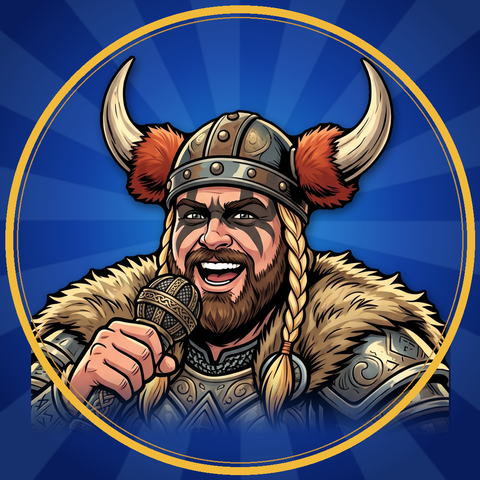
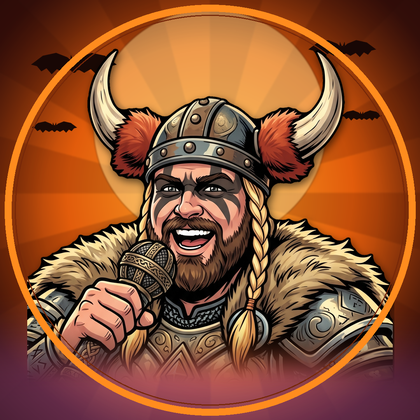
Redesign landing page with Halloween theme and event details.
Add Wednesday 7-11 PM at Aegir's Public House, animated scenery, and updated avatar.

diff --git a/index.html b/index.html
@@ -2,141 +2,207 @@
 <html lang="en">
 <head>
 <meta charset="utf-8">
-<meta name="viewport" content="width=device-width, initial-scale=1">
+<meta name="viewport" content="width=device-width, initial-scale=1, viewport-fit=cover">
 <title>Karaoke Karl</title>
-<meta name="description" content="Request a song, tip the host, and join the fun with Karaoke Karl.">
-<meta name="theme-color" content="#0a1530">
+<meta name="description" content="Karaoke Karl: every Wednesday, 7 to 11 PM at Aegir's Public House. Request a song, tip the host, and join the costume contest.">
+<meta name="theme-color" content="#0e061e">
 <link rel="icon" href="karl.png">
 <style>
   @font-face { font-family: "Fjalla One"; src: url("fonts/fjalla-one.woff2") format("woff2"); font-weight: 400; font-style: normal; font-display: swap; }
   @font-face { font-family: "Lora"; src: url("fonts/lora-italic.woff2") format("woff2"); font-weight: 400 700; font-style: italic; font-display: swap; }
   :root {
-    --navy: #0a1530;
-    --navy-2: #12265a;
-    --gold: #f0b93a;
-    --gold-2: #ffdc78;
-    --ice: #96cdeb;
-    --white: #ffffff;
+    --orange: #ff7614;
+    --orange-2: #ff9a3c;
+    --gold: #ffd27a;
+    --bone: #f3e8d4;
+    --ink: #1a1020;
+    --night: #0e061e;
   }
   * { box-sizing: border-box; }
-  html, body { margin: 0; min-height: 100%; }
-  body {
-    font-family: "Lora", Georgia, serif;
-    color: var(--white);
-    background:
-      radial-gradient(ellipse at 50% 0%, #2a6fb8 0%, rgba(42,111,184,0) 55%),
-      linear-gradient(180deg, var(--navy-2) 0%, var(--navy) 60%, #050b1c 100%);
-    background-attachment: fixed;
-    -webkit-font-smoothing: antialiased;
+  html, body { margin: 0; background: var(--night); }
+  body { font-family: "Lora", Georgia, serif; color: var(--bone); -webkit-font-smoothing: antialiased; }
+
+  .scene {
+    position: relative; overflow: hidden;
+    min-height: 100vh; min-height: 100svh;
+    background: linear-gradient(180deg, #0e061e 0%, #1d0b35 45%, #3e1648 75%, #8c3424 100%);
   }
+
+  /* ---------- scenery ---------- */
+  .moon {
+    position: absolute; z-index: 0; top: 2.5svh; right: 5vw;
+    width: clamp(64px, 19vw, 104px); aspect-ratio: 1; border-radius: 50%;
+    background:
+      radial-gradient(circle at 30% 28%, rgba(235,196,142,.9) 0 7%, transparent 8%),
+      radial-gradient(circle at 62% 40%, rgba(235,196,142,.8) 0 9%, transparent 10%),
+      radial-gradient(circle at 45% 70%, rgba(235,196,142,.85) 0 8%, transparent 9%),
+      radial-gradient(circle at 72% 72%, rgba(235,196,142,.75) 0 5%, transparent 6%),
+      radial-gradient(circle at 35% 35%, #fff2cf, #ffdca0 62%, #f2c488);
+    box-shadow: 0 0 50px 16px rgba(255,150,60,.35);
+    animation: moonglow 5s ease-in-out infinite;
+  }
+  @keyframes moonglow { 0%,100% { box-shadow: 0 0 44px 12px rgba(255,150,60,.28); } 50% { box-shadow: 0 0 72px 26px rgba(255,150,60,.5); } }
+  .web { position: absolute; z-index: 0; top: 0; left: 0; width: clamp(90px, 28vw, 150px); opacity: .55; pointer-events: none; }
+  .fly { position: absolute; z-index: 1; left: 0; pointer-events: none; will-change: transform; animation: cross linear infinite; }
+  .fly svg { display: block; width: var(--w, 52px); height: auto; animation: flap .34s ease-in-out infinite alternate; transform-origin: 50% 60%; }
+  .fly.b1 { top: 5svh; --w: 54px; animation-duration: 17s; animation-delay: -3s; }
+  .fly.b2 { top: 13svh; --w: 38px; animation-duration: 23s; animation-delay: -12s; }
+  .fly.b3 { top: 21svh; --w: 46px; animation-duration: 29s; animation-delay: -20s; }
+  @keyframes cross { from { transform: translateX(-90px); } to { transform: translateX(calc(100vw + 90px)); } }
+  @keyframes flap { from { transform: scaleY(1); } to { transform: scaleY(.55); } }
+
+  .fog { position: absolute; z-index: 0; left: -20%; width: 140%; height: 26svh; bottom: 6svh; pointer-events: none;
+    background: radial-gradient(ellipse at 30% 60%, rgba(150,90,190,.32), transparent 60%), radial-gradient(ellipse at 75% 50%, rgba(130,80,170,.28), transparent 60%);
+    animation: drift 16s ease-in-out infinite alternate; }
+  @keyframes drift { from { transform: translateX(-6%); } to { transform: translateX(6%); } }
+
+  .ground { position: absolute; z-index: 1; left: 0; right: 0; bottom: 0; height: 84px; pointer-events: none; }
+  .ground svg.hill { position: absolute; inset: 0; width: 100%; height: 100%; display: block; }
+  .ground-inner { position: relative; width: min(100%, 520px); height: 100%; margin: 0 auto; }
+  .stone { position: absolute; bottom: 28px; width: 22px; height: 34px; border-radius: 12px 12px 0 0; background: #24123a; }
+  .stone::before { content: ""; position: absolute; left: 50%; top: 7px; width: 2px; height: 14px; margin-left: -1px; background: #3d2860; }
+  .stone::after { content: ""; position: absolute; left: 50%; top: 11px; width: 10px; height: 2px; margin-left: -5px; background: #3d2860; }
+  .pk { position: absolute; bottom: 16px; width: clamp(60px, 16vw, 78px); height: auto; animation: flicker 2.6s ease-in-out infinite; }
+  .pk.l { left: 12px; } .pk.r { right: 12px; animation-delay: -1.3s; }
+  @keyframes flicker { 0%,100% { filter: drop-shadow(0 0 8px rgba(255,140,30,.55)); } 45% { filter: drop-shadow(0 0 18px rgba(255,170,50,.95)); } 70% { filter: drop-shadow(0 0 10px rgba(255,140,30,.65)); } }
+  .handle { position: absolute; left: 0; right: 0; bottom: 18px; text-align: center; font-family: "Fjalla One", "Arial Narrow", sans-serif; letter-spacing: .14em; font-size: 16px; color: var(--bone); opacity: .85; }
+
+  /* ---------- content ---------- */
   main {
-    max-width: 460px;
-    margin: 0 auto;
-    padding: 36px 20px 40px;
-    display: flex;
-    flex-direction: column;
-    align-items: center;
+    position: relative; z-index: 3;
+    max-width: 460px; margin: 0 auto;
+    min-height: 100vh; min-height: 100svh;
+    padding: clamp(10px, 2.2svh, 22px) 18px 96px;
+    display: flex; flex-direction: column; align-items: center; justify-content: center;
   }
   .avatar {
-    width: 168px; height: 168px;
-    border-radius: 50%;
-    box-shadow: 0 0 0 4px rgba(240,185,58,.9), 0 12px 40px rgba(0,0,0,.5), 0 0 60px rgba(240,185,58,.25);
-    display: block;
+    width: clamp(92px, 15svh, 158px); height: auto; aspect-ratio: 1; border-radius: 50%; display: block; object-fit: cover;
+    box-shadow: 0 0 0 3px rgba(255,122,20,.95), 0 10px 30px rgba(0,0,0,.55), 0 0 40px rgba(255,122,20,.45);
+    animation: bob 4s ease-in-out infinite, aura 3s ease-in-out infinite;
   }
+  @keyframes bob { 0%,100% { transform: translateY(0); } 50% { transform: translateY(-4px); } }
+  @keyframes aura { 0%,100% { box-shadow: 0 0 0 3px rgba(255,122,20,.95), 0 10px 30px rgba(0,0,0,.55), 0 0 34px rgba(255,122,20,.35); } 50% { box-shadow: 0 0 0 3px rgba(255,170,60,1), 0 10px 30px rgba(0,0,0,.55), 0 0 56px rgba(255,122,20,.7); } }
   h1 {
-    font-family: "Fjalla One", "Arial Narrow", Impact, sans-serif;
-    font-weight: 400;
-    font-size: 44px;
-    letter-spacing: .08em;
-    margin: 22px 0 6px;
-    text-align: center;
-    text-shadow: 0 3px 12px rgba(0,0,0,.5);
+    font-family: "Fjalla One", "Arial Narrow", Impact, sans-serif; font-weight: 400;
+    font-size: clamp(34px, 6.4svh, 46px); letter-spacing: .08em; line-height: 1;
+    margin: clamp(8px, 1.6svh, 14px) 0 0; text-align: center; color: #fff;
+    text-shadow: 0 0 18px rgba(255,122,20,.65), 0 3px 10px rgba(0,0,0,.6);
   }
-  .tag {
-    font-style: italic;
-    font-weight: 600;
-    color: var(--ice);
-    font-size: 18px;
-    margin: 0 0 28px;
-    text-align: center;
-  }
-  .links { width: 100%; display: grid; gap: 14px; margin: 0; padding: 0; list-style: none; }
+  .when { margin: clamp(6px, 1.2svh, 10px) 0 0; text-align: center; line-height: 1.15; }
+  .when .d { display: block; font-family: "Fjalla One", "Arial Narrow", sans-serif; font-size: clamp(19px, 3.3svh, 23px); letter-spacing: .12em; color: var(--gold); }
+  .when .p { display: block; margin-top: 3px; font-style: italic; font-weight: 600; font-size: clamp(15px, 2.5svh, 18px); color: var(--bone); }
+
+  .links { width: 100%; display: grid; gap: clamp(8px, 1.4svh, 12px); margin: clamp(12px, 2.2svh, 20px) 0 0; padding: 0; list-style: none; }
   .btn {
-    display: flex; align-items: center; gap: 16px;
-    padding: 18px 20px;
-    min-height: 84px;
-    border-radius: 18px;
-    text-decoration: none;
-    color: var(--white);
-    background: rgba(5, 12, 36, .72);
-    border: 2px solid rgba(240,185,58,.75);
-    box-shadow: 0 6px 20px rgba(0,0,0,.35);
-    transition: transform .12s ease, background .12s ease, border-color .12s ease;
+    position: relative; overflow: hidden;
+    display: flex; align-items: center; gap: 14px;
+    padding: 9px 16px; min-height: clamp(60px, 9.4svh, 88px);
+    border-radius: 18px; text-decoration: none; color: var(--bone);
+    background: rgba(24, 9, 42, .82);
+    border: 2px solid rgba(255,122,20,.7);
+    box-shadow: 0 6px 18px rgba(0,0,0,.4);
+    animation: spot 6s ease-in-out infinite;
+    -webkit-tap-highlight-color: transparent;
   }
-  .btn:hover, .btn:focus-visible { transform: translateY(-2px); background: rgba(18, 38, 90, .9); border-color: var(--gold-2); outline: none; }
-  .btn:active { transform: translateY(0); }
-  .btn:focus-visible { box-shadow: 0 0 0 4px rgba(255,220,120,.55); }
-  .btn.primary { background: linear-gradient(180deg, var(--gold-2), var(--gold)); color: #1a1405; border-color: var(--gold-2); }
-  .btn.primary:hover, .btn.primary:focus-visible { background: linear-gradient(180deg, #ffe58f, #f7c24a); }
-  .ic {
-    flex: 0 0 52px; width: 52px; height: 52px; border-radius: 14px;
-    display: grid; place-items: center;
-    background: rgba(240,185,58,.16);
-    color: var(--gold-2);
+  .links li:nth-child(2) .btn, .links li:nth-child(2) .btn::after { animation-delay: 2s; }
+  .links li:nth-child(3) .btn, .links li:nth-child(3) .btn::after { animation-delay: 4s; }
+  .btn::after {
+    content: ""; position: absolute; inset: 0; pointer-events: none;
+    background: linear-gradient(105deg, transparent 35%, rgba(255,235,190,.38) 50%, transparent 65%);
+    transform: translateX(-130%); animation: sweep 6s ease-in-out infinite;
   }
-  .primary .ic { background: rgba(26,20,5,.12); color: #1a1405; }
-  .ic svg { width: 30px; height: 30px; }
+  @keyframes spot {
+    0%   { transform: scale(1); border-color: rgba(255,122,20,.7); box-shadow: 0 6px 18px rgba(0,0,0,.4); }
+    5%, 27% { transform: scale(1.035); border-color: var(--gold); box-shadow: 0 0 0 2px rgba(255,210,122,.35), 0 0 30px 6px rgba(255,122,20,.65); }
+    36%, 100% { transform: scale(1); border-color: rgba(255,122,20,.7); box-shadow: 0 6px 18px rgba(0,0,0,.4); }
+  }
+  @keyframes sweep { 0%, 4% { transform: translateX(-130%); } 24%, 100% { transform: translateX(130%); } }
+  .btn:hover, .btn:focus-visible { border-color: var(--gold); outline: none; }
+  .btn:active { transform: scale(.98); }
+  .btn.primary { background: linear-gradient(180deg, #ffa54a, #f26a00); color: var(--ink); border-color: #ffc57a; }
+  .ic { flex: 0 0 46px; width: 46px; height: 46px; border-radius: 13px; display: grid; place-items: center; background: rgba(255,122,20,.18); color: var(--orange-2); }
+  .primary .ic { background: rgba(26,16,32,.14); color: var(--ink); }
+  .ic svg { width: 27px; height: 27px; }
   .txt { flex: 1; min-width: 0; }
-  .title { font-family: "Fjalla One", "Arial Narrow", Impact, sans-serif; font-size: 26px; letter-spacing: .05em; line-height: 1.1; display: block; }
-  .sub { font-size: 15px; opacity: .85; display: block; margin-top: 4px; font-style: italic; }
-  .chev { flex: 0 0 auto; width: 22px; height: 22px; opacity: .8; }
-  footer { margin-top: 30px; font-family: "Fjalla One", "Arial Narrow", sans-serif; letter-spacing: .12em; font-size: 16px; opacity: .7; text-align: center; }
+  .title { display: block; font-family: "Fjalla One", "Arial Narrow", Impact, sans-serif; font-size: clamp(22px, 3.6svh, 27px); letter-spacing: .05em; line-height: 1.08; }
+  .sub { display: block; font-size: 14.5px; opacity: .9; margin-top: 2px; font-style: italic; }
+  .chev { flex: 0 0 auto; width: 20px; height: 20px; opacity: .85; }
+
+  @media (prefers-reduced-motion: reduce) {
+    *, *::before, *::after { animation: none !important; }
+    .fly { display: none; }
+  }
 </style>
 </head>
 <body>
-<main>
-  <img class="avatar" src="karl.png" alt="Karaoke Karl" width="168" height="168">
-  <h1>KARAOKE KARL</h1>
-  <p class="tag">Pick a song. Tip your host. Join the fun.</p>
+<svg width="0" height="0" style="position:absolute" aria-hidden="true">
+  <symbol id="bat" viewBox="0 5 120 40">
+    <polygon points="60.0,26.0 69.0,18.0 84.0,12.0 102.0,16.0 118.0,28.0 110.0,30.0 104.0,37.0 97.0,33.0 90.0,41.0 83.0,34.0 74.0,39.0 67.0,35.0 60.0,37.0 60.0,37.0 53.0,35.0 46.0,39.0 37.0,34.0 30.0,41.0 23.0,33.0 16.0,37.0 10.0,30.0 2.0,28.0 18.0,16.0 36.0,12.0 51.0,18.0 60.0,26.0" fill="#2c1a4a" stroke="#6a4a9a" stroke-width="1"/>
+    <ellipse cx="60" cy="30" rx="5" ry="8.5" fill="#2c1a4a" stroke="#6a4a9a" stroke-width="1"/>
+    <polygon points="55,24 56,15 59,22" fill="#2c1a4a" stroke="#6a4a9a" stroke-width="1"/><polygon points="65,24 64,15 61,22" fill="#2c1a4a" stroke="#6a4a9a" stroke-width="1"/>
+  </symbol>
+  <symbol id="pumpkin" viewBox="0 0 120 110">
+    <path d="M56 24 C54 12 60 6 70 4 C68 12 66 18 64 26 Z" fill="#4c7a2a"/>
+    <ellipse cx="32" cy="64" rx="26" ry="38" fill="#e8620a"/><ellipse cx="88" cy="64" rx="26" ry="38" fill="#e8620a"/>
+    <ellipse cx="46" cy="64" rx="28" ry="40" fill="#f57a14"/><ellipse cx="74" cy="64" rx="28" ry="40" fill="#f57a14"/>
+    <ellipse cx="60" cy="64" rx="22" ry="42" fill="#ff8c24"/>
+    <polygon points="34,56 52,56 43,38" fill="#fff0a8"/><polygon points="68,56 86,56 77,38" fill="#fff0a8"/>
+    <polygon points="56,66 64,66 60,58" fill="#fff0a8"/>
+    <polygon points="30,74 40,84 48,76 56,88 64,76 72,84 80,76 90,74 84,92 60,98 36,92" fill="#fff0a8"/>
+  </symbol>
+</svg>
 
-  <ul class="links">
-    <!-- To remove a button, delete its whole <li> block. To change where one goes, edit its href. -->
+<div class="scene">
+  <div class="moon" aria-hidden="true"></div>
+  <svg class="web" viewBox="0 0 300 300" aria-hidden="true"><g stroke="#c9b7e0" stroke-width="2" fill="none">
+    <line x1="0" y1="0" x2="300" y2="0"/><line x1="0" y1="0" x2="260" y2="150"/><line x1="0" y1="0" x2="212" y2="212"/><line x1="0" y1="0" x2="150" y2="260"/><line x1="0" y1="0" x2="0" y2="300"/>
+    <path d="M70,0 Q58,58 0,70"/><path d="M140,0 Q112,112 0,140"/><path d="M210,0 Q168,168 0,210"/><path d="M280,0 Q222,222 0,280"/>
+  </g></svg>
+  <div class="fly b1" aria-hidden="true"><svg viewBox="0 5 120 40"><use href="#bat"/></svg></div>
+  <div class="fly b2" aria-hidden="true"><svg viewBox="0 5 120 40"><use href="#bat"/></svg></div>
+  <div class="fly b3" aria-hidden="true"><svg viewBox="0 5 120 40"><use href="#bat"/></svg></div>
+  <div class="fog" aria-hidden="true"></div>
 
-    <li>
-      <a class="btn primary" href="https://costume-voting.vercel.app/" target="_blank" rel="noopener">
-        <span class="ic" aria-hidden="true">
-          <svg viewBox="0 0 24 24" fill="none" stroke="currentColor" stroke-width="2" stroke-linecap="round" stroke-linejoin="round"><path d="M8 21h8"/><path d="M12 17v4"/><path d="M7 4h10v5a5 5 0 0 1-10 0V4z"/><path d="M17 5h3v2a3 3 0 0 1-3 3"/><path d="M7 5H4v2a3 3 0 0 0 3 3"/></svg>
-        </span>
-        <span class="txt"><span class="title">COSTUME CONTEST</span><span class="sub">Nominate and vote</span></span>
-        <svg class="chev" viewBox="0 0 24 24" fill="none" stroke="currentColor" stroke-width="2.5" stroke-linecap="round" stroke-linejoin="round" aria-hidden="true"><path d="M9 6l6 6-6 6"/></svg>
-      </a>
-    </li>
+  <main>
+    <img class="avatar" src="karl.png" alt="Karaoke Karl" >
+    <h1>KARAOKE KARL</h1>
+    <p class="when"><span class="d">EVERY WEDNESDAY &bull; 7 TO 11 PM</span><span class="p">@ Aegir's Public House</span></p>
 
-    <li>
-      <a class="btn" href="https://www.karafun.com/069387" target="_blank" rel="noopener">
-        <span class="ic" aria-hidden="true">
-          <svg viewBox="0 0 24 24" fill="none" stroke="currentColor" stroke-width="2" stroke-linecap="round" stroke-linejoin="round"><rect x="9" y="2" width="6" height="12" rx="3"/><path d="M5 11a7 7 0 0 0 14 0"/><path d="M12 18v4"/><path d="M8 22h8"/></svg>
-        </span>
-        <span class="txt"><span class="title">REQUEST A SONG</span><span class="sub">Open Karafun on your phone</span></span>
-        <svg class="chev" viewBox="0 0 24 24" fill="none" stroke="currentColor" stroke-width="2.5" stroke-linecap="round" stroke-linejoin="round" aria-hidden="true"><path d="M9 6l6 6-6 6"/></svg>
-      </a>
-    </li>
+    <ul class="links">
+      <!-- To remove a button, delete its whole <li> block. To change where one goes, edit its href. -->
+      <li>
+        <a class="btn primary" href="https://costume-voting.vercel.app/" target="_blank" rel="noopener">
+          <span class="ic" aria-hidden="true"><svg viewBox="0 0 24 24" fill="none" stroke="currentColor" stroke-width="2" stroke-linecap="round" stroke-linejoin="round"><path d="M8 21h8"/><path d="M12 17v4"/><path d="M7 4h10v5a5 5 0 0 1-10 0V4z"/><path d="M17 5h3v2a3 3 0 0 1-3 3"/><path d="M7 5H4v2a3 3 0 0 0 3 3"/></svg></span>
+          <span class="txt"><span class="title">COSTUME CONTEST</span><span class="sub">Nominate and vote</span></span>
+          <svg class="chev" viewBox="0 0 24 24" fill="none" stroke="currentColor" stroke-width="2.5" stroke-linecap="round" stroke-linejoin="round" aria-hidden="true"><path d="M9 6l6 6-6 6"/></svg>
+        </a>
+      </li>
+      <li>
+        <a class="btn" href="https://www.karafun.com/069387" target="_blank" rel="noopener">
+          <span class="ic" aria-hidden="true"><svg viewBox="0 0 24 24" fill="none" stroke="currentColor" stroke-width="2" stroke-linecap="round" stroke-linejoin="round"><rect x="9" y="2" width="6" height="12" rx="3"/><path d="M5 11a7 7 0 0 0 14 0"/><path d="M12 18v4"/><path d="M8 22h8"/></svg></span>
+          <span class="txt"><span class="title">REQUEST A SONG</span><span class="sub">Open Karafun on your phone</span></span>
+          <svg class="chev" viewBox="0 0 24 24" fill="none" stroke="currentColor" stroke-width="2.5" stroke-linecap="round" stroke-linejoin="round" aria-hidden="true"><path d="M9 6l6 6-6 6"/></svg>
+        </a>
+      </li>
+      <li>
+        <a class="btn" href="https://venmo.com/u/Charles-Smith-542" target="_blank" rel="noopener">
+          <span class="ic" aria-hidden="true"><svg viewBox="0 0 24 24" fill="none" stroke="currentColor" stroke-width="2" stroke-linecap="round" stroke-linejoin="round"><circle cx="12" cy="12" r="9"/><path d="M14.8 9.2C14.4 8.4 13.4 8 12 8c-1.6 0-2.7.7-2.7 1.8 0 2.6 5.4 1.2 5.4 3.9 0 1.1-1.1 1.9-2.7 1.9-1.4 0-2.5-.5-3-1.4"/><path d="M12 6.5V8M12 16v1.5"/></svg></span>
+          <span class="txt"><span class="title">TIP THE HOST</span><span class="sub">Venmo @Charles-Smith-542</span></span>
+          <svg class="chev" viewBox="0 0 24 24" fill="none" stroke="currentColor" stroke-width="2.5" stroke-linecap="round" stroke-linejoin="round" aria-hidden="true"><path d="M9 6l6 6-6 6"/></svg>
+        </a>
+      </li>
+    </ul>
+  </main>
 
-    <li>
-      <a class="btn" href="https://venmo.com/u/Charles-Smith-542" target="_blank" rel="noopener">
-        <span class="ic" aria-hidden="true">
-          <svg viewBox="0 0 24 24" fill="none" stroke="currentColor" stroke-width="2" stroke-linecap="round" stroke-linejoin="round"><circle cx="12" cy="12" r="9"/><path d="M14.8 9.2C14.4 8.4 13.4 8 12 8c-1.6 0-2.7.7-2.7 1.8 0 2.6 5.4 1.2 5.4 3.9 0 1.1-1.1 1.9-2.7 1.9-1.4 0-2.5-.5-3-1.4"/><path d="M12 6.5V8M12 16v1.5"/></svg>
-        </span>
-        <span class="txt"><span class="title">TIP THE HOST</span><span class="sub">Venmo @Charles-Smith-542</span></span>
-        <svg class="chev" viewBox="0 0 24 24" fill="none" stroke="currentColor" stroke-width="2.5" stroke-linecap="round" stroke-linejoin="round" aria-hidden="true"><path d="M9 6l6 6-6 6"/></svg>
-      </a>
-    </li>
-
-
-
-  </ul>
-
-  <footer>@KARAOKARL</footer>
-</main>
+  <div class="ground" aria-hidden="true">
+    <svg class="hill" viewBox="0 0 400 84" preserveAspectRatio="none"><path d="M0,40 C60,28 110,50 170,38 C230,26 290,48 340,36 C370,30 390,34 400,38 L400,84 L0,84 Z" fill="#05020a"/></svg>
+    <div class="ground-inner">
+      <div class="stone" style="left:26%"></div><div class="stone" style="left:72%;height:28px"></div>
+      <svg class="pk l" viewBox="0 0 120 110"><use href="#pumpkin"/></svg>
+      <svg class="pk r" viewBox="0 0 120 110"><use href="#pumpkin"/></svg>
+      <div class="handle">@KARAOKARL</div>
+    </div>
+  </div>
+</div>
 </body>
 </html>
